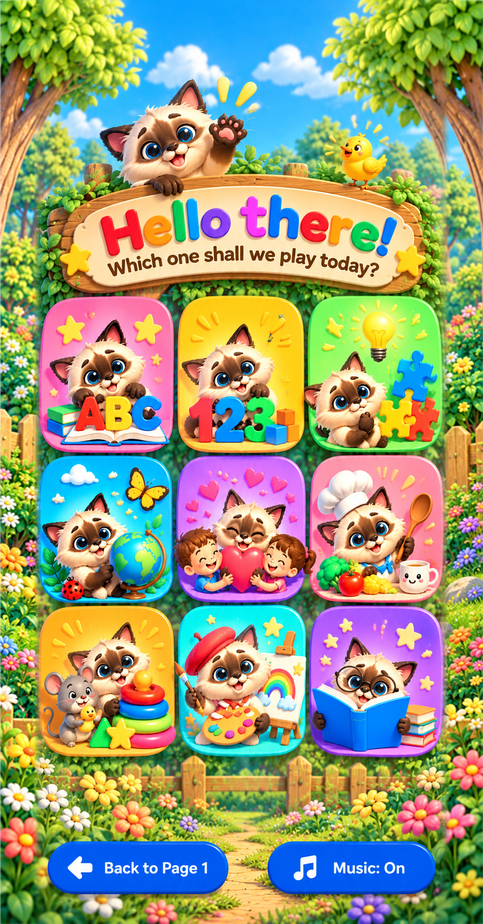
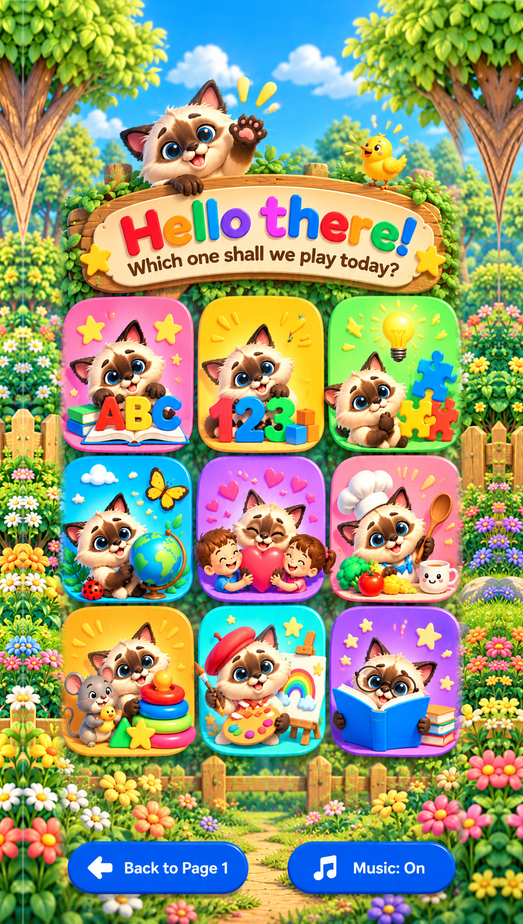
Fix mobile responsive layouts

diff --git a/page2.html b/page2.html
@@ -83,7 +83,6 @@
       .page { display: grid; grid-template-rows: minmax(0, 1fr); width: 100dvw; height: 100dvh; gap: 0; }
       .artboard { justify-self: center; align-self: center; width: min(100dvw, calc(100dvh * 412 / 924)); height: auto; margin: 0; aspect-ratio: 412 / 924; }
       .artboard img { object-fit: contain; object-position: center; }
-      body::before { display: none; }
       .panel-link { left: var(--x-portrait); top: var(--y-portrait); width: var(--w-portrait); height: var(--h-portrait); }
       .butterfly--one { left: 3%; top: 86%; }
       .butterfly--two { right: 3%; top: 86%; }
@@ -98,7 +97,6 @@
         aspect-ratio: 924 / 412;
       }
       .artboard img { object-fit: contain; }
-      body::before { display: none; }
     }
     @media (min-width: 768px) and (max-width: 1239px) and (min-height: 900px) and (orientation: portrait) {
       body::before { display: none; }
@@ -134,13 +132,13 @@
       .artboard { justify-self: stretch; align-self: stretch; width: 100dvw; height: 100dvh; margin: 0; aspect-ratio: auto; }
       .artboard img { object-fit: contain; object-position: center; }
       .panel-link { left: var(--x-portrait); top: var(--y-portrait); width: var(--w-portrait); height: var(--h-portrait); }
-      body::before { display: none; }
+      body::before { display: block; z-index: 0; }
     }
     @media (pointer: coarse) and (orientation: landscape) and (max-height: 600px) {
       .page { position: relative; z-index: 1; grid-template-rows: minmax(0, 1fr); width: 100dvw; height: 100dvh; gap: 0; background: transparent; }
       .artboard { justify-self: stretch; align-self: stretch; width: 100dvw; height: 100dvh; aspect-ratio: auto; }
-      .artboard img { object-fit: contain; object-position: center; }
-      body::before { display: none; }
+      .artboard img { object-fit: fill; object-position: center; }
+      body::before { display: block; z-index: 0; }
     }
     @media (prefers-reduced-motion: reduce) {
       html { scroll-behavior: auto; }
@@ -364,16 +362,12 @@
       const fullbleedImage = artwork.currentSrc.includes('page2-mobile-portrait-full.png');
       const imageWidth = fullbleedImage ? 412 : artwork.naturalWidth;
       const insetX = fullbleedImage ? (artwork.naturalWidth - imageWidth) / 2 : 0;
-      const board = artboard.getBoundingClientRect();
-      const scale = Math.min(board.width / artwork.naturalWidth, board.height / artwork.naturalHeight);
-      const drawnWidth = artwork.naturalWidth * scale, drawnHeight = artwork.naturalHeight * scale;
-      const offsetX = (board.width - drawnWidth) / 2, offsetY = (board.height - drawnHeight) / 2;
       panelLinks.forEach((link, index) => {
         const [x, y, width, height] = portraitPanels[index];
-        link.style.left = `${offsetX + (insetX + imageWidth * x) * scale}px`;
-        link.style.top = `${offsetY + artwork.naturalHeight * y * scale}px`;
-        link.style.width = `${imageWidth * width * scale}px`;
-        link.style.height = `${artwork.naturalHeight * height * scale}px`;
+        link.style.left = `${(insetX + imageWidth * x) / artwork.naturalWidth * 100}%`;
+        link.style.top = `${y * 100}%`;
+        link.style.width = `${imageWidth * width / artwork.naturalWidth * 100}%`;
+        link.style.height = `${height * 100}%`;
       });
     }
 
@@ -390,16 +384,12 @@
       const fullbleedImage = artwork.currentSrc.includes('page2-mobile-landscape-full.png');
       const imageWidth = fullbleedImage ? 924 : artwork.naturalWidth;
       const insetX = fullbleedImage ? (artwork.naturalWidth - imageWidth) / 2 : 0;
-      const board = artboard.getBoundingClientRect();
-      const scale = Math.min(board.width / artwork.naturalWidth, board.height / artwork.naturalHeight);
-      const drawnWidth = artwork.naturalWidth * scale, drawnHeight = artwork.naturalHeight * scale;
-      const offsetX = (board.width - drawnWidth) / 2, offsetY = (board.height - drawnHeight) / 2;
       panelLinks.forEach((link, index) => {
         const [x, y, width, height] = mobilePanels[index];
-        link.style.left = `${offsetX + (insetX + imageWidth * x) * scale}px`;
-        link.style.top = `${offsetY + artwork.naturalHeight * y * scale}px`;
-        link.style.width = `${imageWidth * width * scale}px`;
-        link.style.height = `${artwork.naturalHeight * height * scale}px`;
+        link.style.left = `${(insetX + imageWidth * x) / artwork.naturalWidth * 100}%`;
+        link.style.top = `${y * 100}%`;
+        link.style.width = `${imageWidth * width / artwork.naturalWidth * 100}%`;
+        link.style.height = `${height * 100}%`;
       });
     }
 
@@ -416,12 +406,12 @@
       const scale = getComputedStyle(artwork).objectFit === 'cover'
         ? Math.max(board.width / artwork.naturalWidth, board.height / artwork.naturalHeight)
         : Math.min(board.width / artwork.naturalWidth, board.height / artwork.naturalHeight);
-      const scaleX = scale;
-      const scaleY = scale;
-      const drawnWidth = artwork.naturalWidth * scale;
-      const drawnHeight = artwork.naturalHeight * scale;
-      const offsetX = (board.width - drawnWidth) / 2;
-      const offsetY = (board.height - drawnHeight) / 2;
+      const scaleX = fillImage ? board.width / artwork.naturalWidth : scale;
+      const scaleY = fillImage ? board.height / artwork.naturalHeight : scale;
+      const drawnWidth = artwork.naturalWidth * scaleX;
+      const drawnHeight = artwork.naturalHeight * scaleY;
+      const offsetX = fillImage ? 0 : (board.width - drawnWidth) / 2;
+      const offsetY = fillImage ? 0 : (board.height - drawnHeight) / 2;
       let artworkButtons = imageName === 'page2-laptop.png'
         ? [[0.018, 0.870, 0.153, 0.097], [0.856, 0.870, 0.128, 0.097]]
         : imageName === 'page2-mobile-portrait.png' || isFullbleedPortrait
